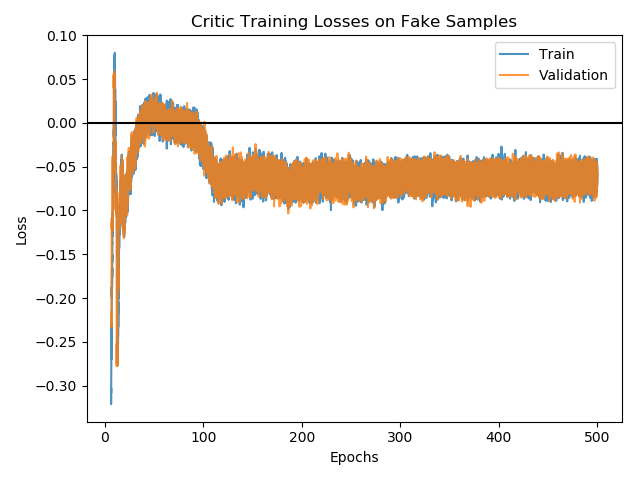
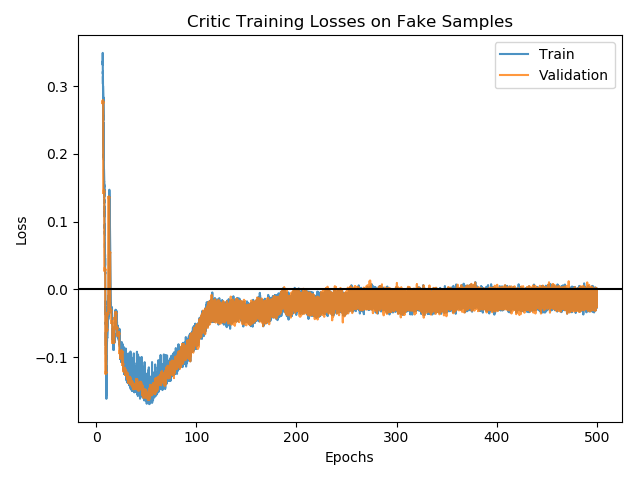
further work on shape gan section

diff --git a/generation.tex b/generation.tex
@@ -154,11 +154,10 @@ Training of the Generator will be complete when the Critic can no longer disting
 Will this occurs the Critic losses have settled at 0.
 
 \section{Model Architecture}
-The GAN is composed of a Generator and a Critic, trained with the Wasserstein Loss with Gradient Penalty to ensure the Lipschtiz condition, described by equation (\ref{eq:wgan_gp}).
+The GAN is composed of a Generator and a Critic, trained with the Wasserstein Loss with Gradient Penalty to ensure the Lipschtiz condition, described by equations (\ref{eq:wgan}, \ref{eq:wgan_gp}) respectively for the two models.
 More details on the loss function is discussed are Section \ref{sec:Stability_to_GANs}.
 
 \subsection{Model Structure}
-The GAN model is trained with Wasserstein Loss with Gradient Penalty to meet Lipschtiz condition as discussed in Section \ref{sec:Stability_to_GANs}.
 The GAN model is constructed of two CNN architectures; a Generator and a Critic.
 A high level diagram of the GAN model is shown by Figure \ref{fig:gan_model}.
 
@@ -170,7 +169,7 @@ A high level diagram of the GAN model is shown by Figure \ref{fig:gan_model}.
 
 The Critic is trained on a corresponding pair of MFCC values and blendshape parameters.
 The goal of the Critic is to be able to identify a correct pairing from the dataset and a false pairing consisting of MFCC values and a fake series of blendshape parameters generated by the Generator.
-The Critic returns a score value within the range of [-1, 1], where data inputs which it regards as realistic are smaller, while parings which is regards as fake are larger.
+The Critic returns a score value within the range of [-1, 1], where data inputs which it regards as realistic are larger, while parings which is regards as fake are smaller.
 For each minibatch in a training epoch the Critic is shown a batch of real data values $\mat{x}$ and the Generator creates a batch of fake data values $\mat{\tilde{x}}$.
 The Critic evaluates this data and returns a score for both the real and fake data.
 In addition to the loss from the Critic score on real and fake data samples, the gradient penalty term is calculated, this term is to be minimised to meet the Lipschtiz condition, \cite{Gulrajani2017}.
@@ -185,9 +184,9 @@ The gradient penalty term $\mat{k}$ can then be found with equation (\ref{eq:gra
 The Generator takes inputs of MFCC values and noise from a uniform distribution, these are concatenated together and processed as a single input.
 The Generator then attempts to map this input into blendshape parameter values which the Critic evaluated to a low loss value. 
 During training, the samples produced by the Generator are assessed by the Critic.
-The Generator aims to have the samples it produces labelled as realistic, such that the Critic returns a low value.
+The Generator aims to have the samples it produces labelled as realistic, such that the Critic returns a high value.
 
-At any point for the Generator to improve the quality of the samples it can produce, the Critic must initially be able to distinguish between the real and fake samples, else the Generator has no incentive to improve.
+At any point for the Generator to improve the quality of the samples it can produce, the Critic must initially be able to distinguish between the real and fake samples, else the Generator has no incentive to improve further.
 For this reason, the Critic is trained more frequently then the Generator, in this case the Generator is trained one in ten batches, while the Critic is trained on every batch, the data is shuffled so that the Generator is still exposed to the whole training dataset.
 
 \begin{table}[h!]
@@ -282,6 +281,57 @@ The layer uses the Tanh activation function to output a score in the range of [-
 \end{table}
 
 \section{Discussion of Results}
+Examining the training losses of the Generator and Critic, the performance of the model can be deduced.
+The first condition of the Critic is that the Lipschtiz condition is met, enforced by the gradient penalty term, by examining Figure \ref{fig:gan_critic_gp} this can be seen to reduce rapidly and remain close to zero throughout training.
+
+\begin{figure}[h!]
+    \centering
+        \includegraphics[width=0.65\textwidth]{figures/gan/critic_gp_train_losses.png}
+    \caption{Critic Gradient Penalty Training Loss}\label{fig:gan_critic_gp}
+\end{figure} 
+
+Secondly, the total losses of the Critic as described by equation (\ref{eq:wgan_gp}) are shown in Figure \ref{fig:gan_total_critic_losses}.
+Due to the high initial value of the gradient penalty term, the initial terms have not been plotted for this plot and subsequent plots to aid visualisation.
+The Generator and Critic both aim to have as low a loss as possible, a negative Generator loss is an indication that the fake samples are being scored incorrectly by the Critic as it considers the fake blendshape parameters as a correct pairing for the incoming MFCC values, as described by equation (\ref{eq:wgan}).
+While a negative loss on the total loss of the Critic is an indication that on average the real data samples are being given a higher score than the fake samples.
+From Figure \ref{fig:gan_total_critic_losses} it can be seen that throughout the whole training process the Critic correctly scores real and fake input data.
+However, as the loss from the Critic is a summation of multiple terms, this plot alone does not display all information about the model.
+
+\begin{figure}[h!]
+    \centering
+        \includegraphics[width=0.7\textwidth]{figures/gan/critic_total_train_losses.png}
+    \caption{Critic Total Training Losses}\label{fig:gan_total_critic_losses}
+\end{figure} 
+
+In order to gain a better insight of the Critic and Generator's training losses, the loss on the real and fake data samples can be plotted during the training process.
+The Critic aims to score real samples positively while fake samples negatively, such that the total loss will be negative.
+From equation (\ref{eq:wgan_gp}) the first term $\E{\bm{\tilde{x}} \sim \Pd{g}} [D(\tilde{{\bm{x}}})]$ describes how the Critic evaluates fake data samples produced by the Generator, this is plotted in Figure \ref{fig:gan_critic_fake}.
+The Generator training losses is also plotted in Figure \ref{fig:gen_train_losses} and can be seen to be a mirror of the Critic's evaluation of generated samples.
+From the two plots the Generator can be seen to be gradually improving throughout training, although the the losses never completely fool the Critic.
+The Critic settles on a consistent loss for real data samples shown in Figure \ref{fig:gan_critic_real} as described by the second term in equation (\ref{eq:wgan_gp}): $- \E{\bm{x} \sim \Pd{r}} [D(\bm{x})]$.
+
+\begin{figure}[h!]
+    \centering
+    \begin{subfigure}[b]{0.49\textwidth}
+        \includegraphics[width=\textwidth]{figures/gan/critic_fake_train_losses.png}
+        \caption{Fake Data Samples}\label{fig:gan_critic_fake}
+    \end{subfigure}
+    \begin{subfigure}[b]{0.49\textwidth}
+        \includegraphics[width=\textwidth]{figures/gan/critic_real_train_losses.png}
+        \caption{Real Data Samples}\label{fig:gan_critic_real}
+    \end{subfigure}
+    \caption{Training Losses from Critic for Real and Fake Data Samples}\label{fig:gan_real_fake_train_losses}
+\end{figure}
+
+\begin{figure}[h!]
+    \centering
+        \includegraphics[width=0.7\textwidth]{figures/gan/gen_train_losses.png}
+    \caption{Generator Training Losses}\label{fig:gen_train_losses}
+\end{figure} 
+
+Training settles on the Critic being able to distinguish real samples from fake, although the confidence in these predictions remains low throughout training while the confidence in identifying the fake samples gradually decreases throughout training. 
+While the Generator remains unable to produce samples which completely fool the Critic, the generated results may still inhibit the desired qualities as set out by the assessment conditions in Section \ref{sec:gan_assessment}.
+
 Given that the samples generated by the model are video, this is difficult to represent in a report.
 Odd frames from a single generated sample labelled as ``\textit{America}'' is shown in the Appendix \ref{fig:Gen_America}, but this is a poor means of evaluating the first two assessment conditions stated in Section \ref{sec:gan_assessment}.
 In light of this, a selection of generated samples is hosted on YouTube under an account held by the Author. 
@@ -314,5 +364,3 @@ Although both the models contain a small handful of word labels which are predic
     \end{subfigure}
     \caption{Classification Class Accuracy for Generated Data}\label{fig:gan_class_acc}
 \end{figure}
-
-By examining the loss plot of the GAN while training these results can be shown to be unsurprising.

diff --git a/lit_review.tex b/lit_review.tex
@@ -262,10 +262,10 @@ The Wasserstein loss function has been shown to greatly improve training stabili
 
 In order to use the Wasserstein distance as the loss for WGAN, the Lipschtiz condition must be enforced.
 In the WGAN the model weights are clipped to enforce this constraint \cite{Arjovsky2017}, however this is stated to be a non-ideal method of achieving the Lipschtiz constraint and calls for future work to investigate more effective methods.
-The use of gradient penalty is proposed in \cite{Gulrajani2017} in order to satisfy this condition more elegantly as described in equation (\ref{eq:wgan_gp}).
+The use of gradient penalty is proposed in \cite{Gulrajani2017} in order to satisfy this condition more elegantly by minimising the Critic's loss function as described in equation (\ref{eq:wgan_gp}).
 
 \begin{equation} \label{eq:wgan_gp}
-    \min_{G} \max_{D \in \mathcal{D}} W(\Pd{r}, \Pd{g}) 
+    \textit{L}
         = \E{\bm{\tilde{x}} \sim \Pd{g}} [D(\tilde{{\bm{x}}})]
         - \E{\bm{x} \sim \Pd{r}} [D(\bm{x})]
         + \lambda \E{\bm{\hat{x}} \sim \Pd{\bm{\hat{x}}}} 
